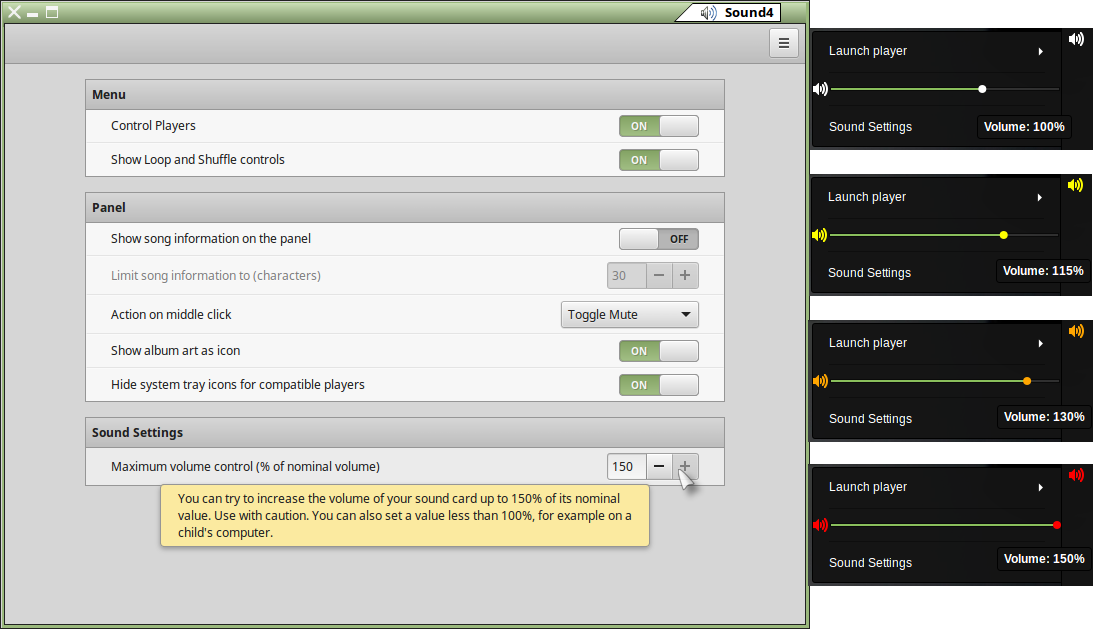
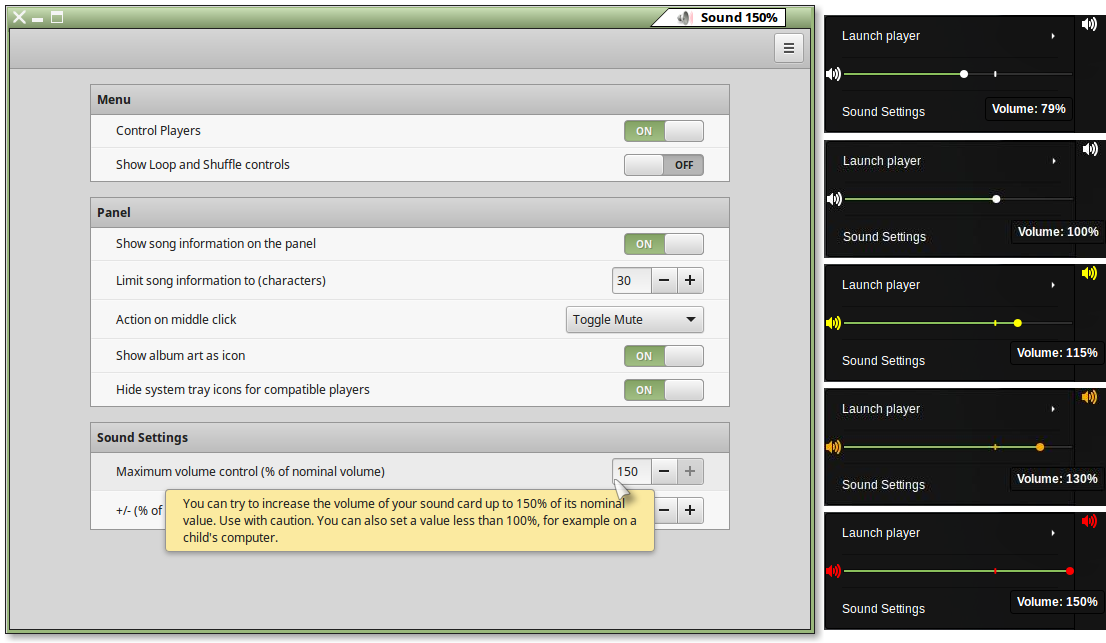
sound150@claudiux: v1.2.0 - Added a mark on the sliders to signal the '100%' position of the volume. (#1607)
* Add fr.po - French translation

* First commit of vpnLookOut@claudiux applet

* Del vpnLookOut@claudiux from master branch

* batterymonitor@pdcurtis: last version of fr.po

* sound150@claudiux: An applet, based on the Cinnamon one, to control sound (up to 150% of nominal volume) and music - First commit

* sound150@claudiux: generate_mo.sh modified as required

* Modifying applet.js to change the management of icon styles and better reload the applet after installing new .mo files

* Keep the icon style class after changing of stream.

* The color of the applet icon now depends only on output volume.

* Duplicate code removed. Decreases complexity of VolumeSlider._init.

* Update info.json

* sound150@claudiux: v1.0.1 - Icon change. Uses new icon.png instead of audio-volume-high.

* v1.1.0 - Possibility to choose the volume increase/decrease value - 100% value is magnetic.

* v1.2.0 - Added a mark on the sliders to signal the '100%' position of the volume.

* Show mark at 100%.

Changed region(s): [[0.0, 0.0, 1.0, 1.0]]

diff --git a/sound150@claudiux/files/sound150@claudiux/applet.js b/sound150@claudiux/files/sound150@claudiux/applet.js
@@ -87,15 +87,91 @@ ControlButton.prototype = {
     }
 };
 
+function MyPopupSliderMenuItem() {
+    this._init.apply(this, arguments);
+}
+
+MyPopupSliderMenuItem.prototype = {
+    __proto__: PopupMenu.PopupSliderMenuItem.prototype,
+
+    _init: function(applet, value) {
+        this.applet = applet;
+        PopupMenu.PopupSliderMenuItem.prototype._init.call(this, value);
+    },
+
+    _sliderRepaint: function(area) {
+        let cr = area.get_context();
+        let themeNode = area.get_theme_node();
+        let [width, height] = area.get_surface_size();
+
+        let handleRadius = themeNode.get_length('-slider-handle-radius');
+
+        let sliderWidth = width - 2 * handleRadius;
+        let sliderHeight = themeNode.get_length('-slider-height');
+
+        let sliderBorderWidth = themeNode.get_length('-slider-border-width');
+        let sliderBorderRadius = Math.min(width, sliderHeight) / 2;
+
+        let sliderBorderColor = themeNode.get_color('-slider-border-color');
+        let sliderColor = themeNode.get_color('-slider-background-color');
+
+        let sliderActiveBorderColor = themeNode.get_color('-slider-active-border-color');
+        let sliderActiveColor = themeNode.get_color('-slider-active-background-color');
+
+        const TAU = Math.PI * 2;
+
+        let handleX = handleRadius + (width - 2 * handleRadius) * this._value;
+
+        cr.arc(sliderBorderRadius + sliderBorderWidth, height / 2, sliderBorderRadius, TAU * 1/4, TAU * 3/4);
+        cr.lineTo(handleX, (height - sliderHeight) / 2);
+        cr.lineTo(handleX, (height + sliderHeight) / 2);
+        cr.lineTo(sliderBorderRadius + sliderBorderWidth, (height + sliderHeight) / 2);
+        Clutter.cairo_set_source_color(cr, sliderActiveColor);
+        cr.fillPreserve();
+        Clutter.cairo_set_source_color(cr, sliderActiveBorderColor);
+        cr.setLineWidth(sliderBorderWidth);
+        cr.stroke();
+
+        cr.arc(width - sliderBorderRadius - sliderBorderWidth, height / 2, sliderBorderRadius, TAU * 3/4, TAU * 1/4);
+        cr.lineTo(handleX, (height + sliderHeight) / 2);
+        cr.lineTo(handleX, (height - sliderHeight) / 2);
+        cr.lineTo(width - sliderBorderRadius - sliderBorderWidth, (height - sliderHeight) / 2);
+        Clutter.cairo_set_source_color(cr, sliderColor);
+        cr.fillPreserve();
+        Clutter.cairo_set_source_color(cr, sliderBorderColor);
+        cr.setLineWidth(sliderBorderWidth);
+        cr.stroke();
+
+        let handleY = height / 2;
+
+        let color = themeNode.get_foreground_color();
+        Clutter.cairo_set_source_color(cr, color);
+        cr.arc(handleX, handleY, handleRadius, 0, 2 * Math.PI);
+        cr.fill();
+
+        // Mark of 100%
+        let xMark = handleRadius + sliderWidth * 100 / this.applet.percentMaxVolume;
+        let yMark = handleY - sliderHeight;
+        cr.rectangle(xMark-handleRadius/4, yMark-handleRadius/2, handleRadius/2, handleRadius);
+        cr.fill();
+        cr.arc(xMark, yMark-handleRadius/2, handleRadius/4 , Math.PI, 2*Math.PI);
+        cr.fill();
+        cr.arc(xMark, yMark+handleRadius/2, handleRadius/4 , 0, Math.PI);
+        cr.fill();
+
+        cr.$dispose();
+    }
+}
+
 function VolumeSlider(){
     this._init.apply(this, arguments);
 }
 
 VolumeSlider.prototype = {
-    __proto__: PopupMenu.PopupSliderMenuItem.prototype,
+    __proto__: MyPopupSliderMenuItem.prototype,
 
     _init: function(applet, stream, tooltip, app_icon){
-        PopupMenu.PopupSliderMenuItem.prototype._init.call(this, 0);
+        MyPopupSliderMenuItem.prototype._init.call(this, applet, 0);
         this.applet = applet;
 
         if(tooltip)
@@ -171,7 +247,6 @@ VolumeSlider.prototype = {
     _update: function(){
         let value = (!this.stream || this.stream.is_muted)? 0 : this.stream.volume / this.applet._volumeNominal;
 
-        global.log("[sound150]: value=" + value)
         if (value>1-VOLUME_ADJUSTMENT_STEP/2 && value<1+VOLUME_ADJUSTMENT_STEP/2)
             value = 1; // 100% is magnetic
 
@@ -183,11 +258,8 @@ VolumeSlider.prototype = {
             this.icon.icon_name = iconName;
         }
         let _icon_and_slider_style_class = this._volumeToStyleClass(value);
-        //if (this.applet.actor.realized)
-        //if (!iconName.startsWith('microphone'))
         if (this.is_master)
             this.applet.actor.style_class = _icon_and_slider_style_class;
-        //if (this.actor.realized)
         this.actor.style_class = _icon_and_slider_style_class;
         this.setValue(value/this.applet.pcMaxVolume);
 
@@ -1005,7 +1077,7 @@ MyApplet.prototype = {
             this._control.connect('stream-added', Lang.bind(this, this._onStreamAdded));
             this._control.connect('stream-removed', Lang.bind(this, this._onStreamRemoved));
 
-            // The problem described below is corrected by this version, with colorful icons.
+            // The problem described below is corrected by this version, with colorful icons, and mark at 100%.
             //this._volumeMax = 1*this._control.get_vol_max_norm(); // previously was 1.5*this._control.get_vol_max_norm();, but we'd need a little mark on the slider to make it obvious to the user we're going over 100%..
             this._volumeNominal = 1*this._control.get_vol_max_norm();
             this._volumeMax = this.pcMaxVolume * this._volumeNominal;
@@ -1164,8 +1236,6 @@ MyApplet.prototype = {
             this._output.push_volume();
             this._output.change_is_muted(false);
         }
-
-        global.log("[sound150]: this._output.volume = " + this._output.volume);
 
         this._notifyVolumeChange(this._output);
     },

diff --git a/sound150@claudiux/README.md b/sound150@claudiux/README.md
@@ -8,21 +8,23 @@ An option allows you to control the volume up to 150% of its nominal value.
 
 The icon and the slider are coloured according to the volume when it is greater than 100%.
 
+A mark on sliders signals the '100%' position of volume.
+
 From 0 to 100%: standard icons.
 
-![sound_100](https://user-images.githubusercontent.com/33965039/34783979-4bd45910-f62d-11e7-82ea-3185a0d0bb56.png)
+![sound_150_079](https://github.com/claudiux/docs/raw/master/sound150/images/sound_079.png) ![sound_150_100](https://github.com/claudiux/docs/raw/master/sound150/images/sound_100.png)
 
 From 101 to 115%: yellow icon.
 
-![sound_115](https://user-images.githubusercontent.com/33965039/34783980-4bf322b4-f62d-11e7-8eb8-e71afe0b2b53.png)
+![sound_150_115](https://github.com/claudiux/docs/raw/master/sound150/images/sound_115.png)
 
 From 116 to 130%: orange icon.
 
-![sound_130](https://user-images.githubusercontent.com/33965039/34783982-4c0c8c04-f62d-11e7-8a49-1c4e11262673.png)
+![sound_150_130](https://github.com/claudiux/docs/raw/master/sound150/images/sound_130.png)
 
 From 131 to 150%: red icon.
 
-![sound_150](https://user-images.githubusercontent.com/33965039/34783983-4c2f13e6-f62d-11e7-85d0-d75055d64a3c.png)
+![sound_150_150](https://github.com/claudiux/docs/raw/master/sound150/images/sound_150.png)
 
 Note that the icons are those of the system. (Their color is obtained via a css file.)
 
@@ -31,7 +33,7 @@ Note that the icons are those of the system. (Their color is obtained via a css 
  * In the settings (accessed by right-clicking on the icon), the ***Maximum volume control*** option sets the percentage of
 nominal volume you want to limit the maximum volume. Possible values are between 30% and 150%.
 
-![sound-settings](https://user-images.githubusercontent.com/33965039/34783927-24a98d06-f62d-11e7-9dda-3871916e5faa.png)
+![sound_150-settings](https://github.com/claudiux/docs/raw/master/sound150/images/sound-settings.png)
 
 Use with caution. Above 120%, saturation can make the sound very unpleasant, even agressive.
 

diff --git a/sound150@claudiux/files/sound150@claudiux/README.md b/sound150@claudiux/files/sound150@claudiux/README.md
@@ -8,21 +8,23 @@ An option allows you to control the volume up to 150% of its nominal value.
 
 The icon and the slider are coloured according to the volume when it is greater than 100%.
 
+A mark on sliders signals the '100%' position of volume.
+
 From 0 to 100%: standard icons.
 
-![sound_100](https://user-images.githubusercontent.com/33965039/34783979-4bd45910-f62d-11e7-82ea-3185a0d0bb56.png)
+![sound_150_079](https://github.com/claudiux/docs/raw/master/sound150/images/sound_079.png) ![sound_150_100](https://github.com/claudiux/docs/raw/master/sound150/images/sound_100.png)
 
 From 101 to 115%: yellow icon.
 
-![sound_115](https://user-images.githubusercontent.com/33965039/34783980-4bf322b4-f62d-11e7-8eb8-e71afe0b2b53.png)
+![sound_150_115](https://github.com/claudiux/docs/raw/master/sound150/images/sound_115.png)
 
 From 116 to 130%: orange icon.
 
-![sound_130](https://user-images.githubusercontent.com/33965039/34783982-4c0c8c04-f62d-11e7-8a49-1c4e11262673.png)
+![sound_150_130](https://github.com/claudiux/docs/raw/master/sound150/images/sound_130.png)
 
 From 131 to 150%: red icon.
 
-![sound_150](https://user-images.githubusercontent.com/33965039/34783983-4c2f13e6-f62d-11e7-85d0-d75055d64a3c.png)
+![sound_150_150](https://github.com/claudiux/docs/raw/master/sound150/images/sound_150.png)
 
 Note that the icons are those of the system. (Their color is obtained via a css file.)
 
@@ -31,7 +33,7 @@ Note that the icons are those of the system. (Their color is obtained via a css 
  * In the settings (accessed by right-clicking on the icon), the ***Maximum volume control*** option sets the percentage of
 nominal volume you want to limit the maximum volume. Possible values are between 30% and 150%.
 
-![sound-settings](https://user-images.githubusercontent.com/33965039/34783927-24a98d06-f62d-11e7-9dda-3871916e5faa.png)
+![sound_150-settings](https://github.com/claudiux/docs/raw/master/sound150/images/sound-settings.png)
 
 Use with caution. Above 120%, saturation can make the sound very unpleasant, even agressive.
 

diff --git a/sound150@claudiux/CHANGELOG.md b/sound150@claudiux/CHANGELOG.md
@@ -1,5 +1,8 @@
 ## CHANGELOG
 
+### v1.2.0
+ * Added a mark on the sliders to signal the '100%' position of the volume.
+
 ### v1.1.0
  * Possibility of choosing, in settings, the value of incrementation/decrementation of the volume (in % of nominal volume).
  * The "100%" value is magnetic.

diff --git a/sound150@claudiux/files/sound150@claudiux/CHANGELOG.md b/sound150@claudiux/files/sound150@claudiux/CHANGELOG.md
@@ -1,5 +1,8 @@
 ## CHANGELOG
 
+### v1.2.0
+ * Added a mark on the sliders to signal the '100%' position of the volume.
+
 ### v1.1.0
  * Possibility of choosing, in settings, the value of incrementation/decrementation of the volume (in % of nominal volume).
  * The "100%" value is magnetic.
